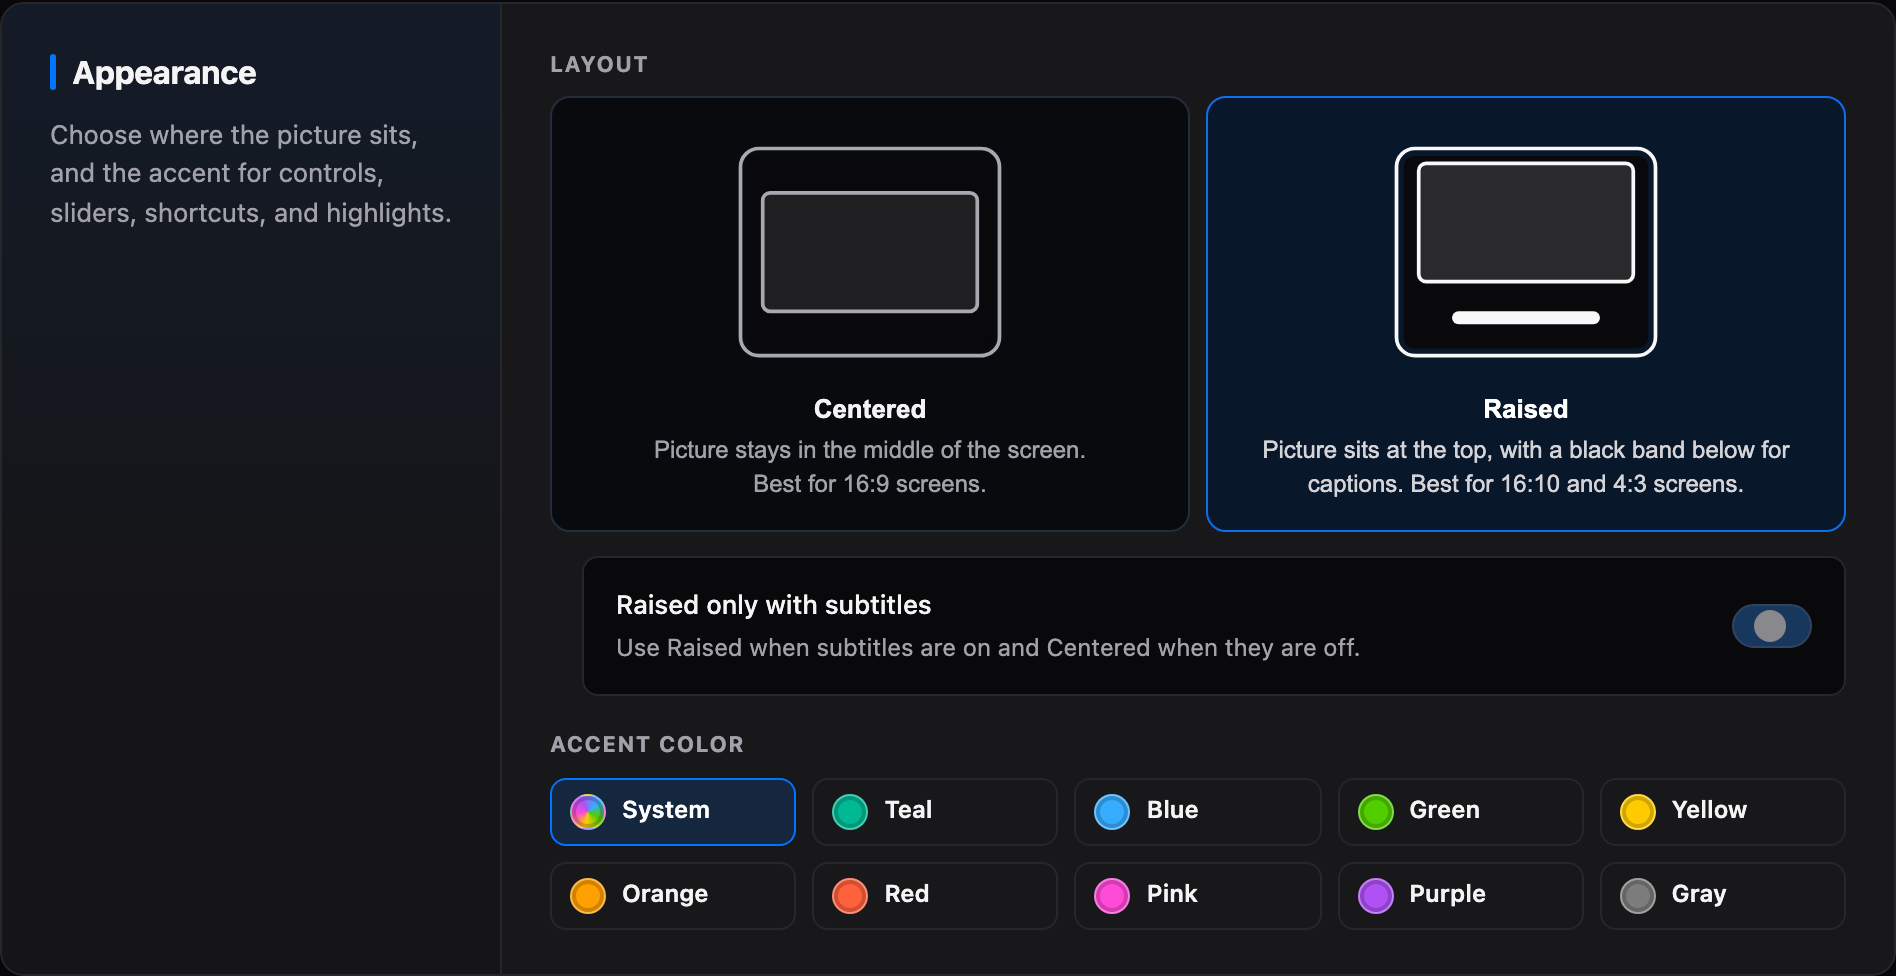
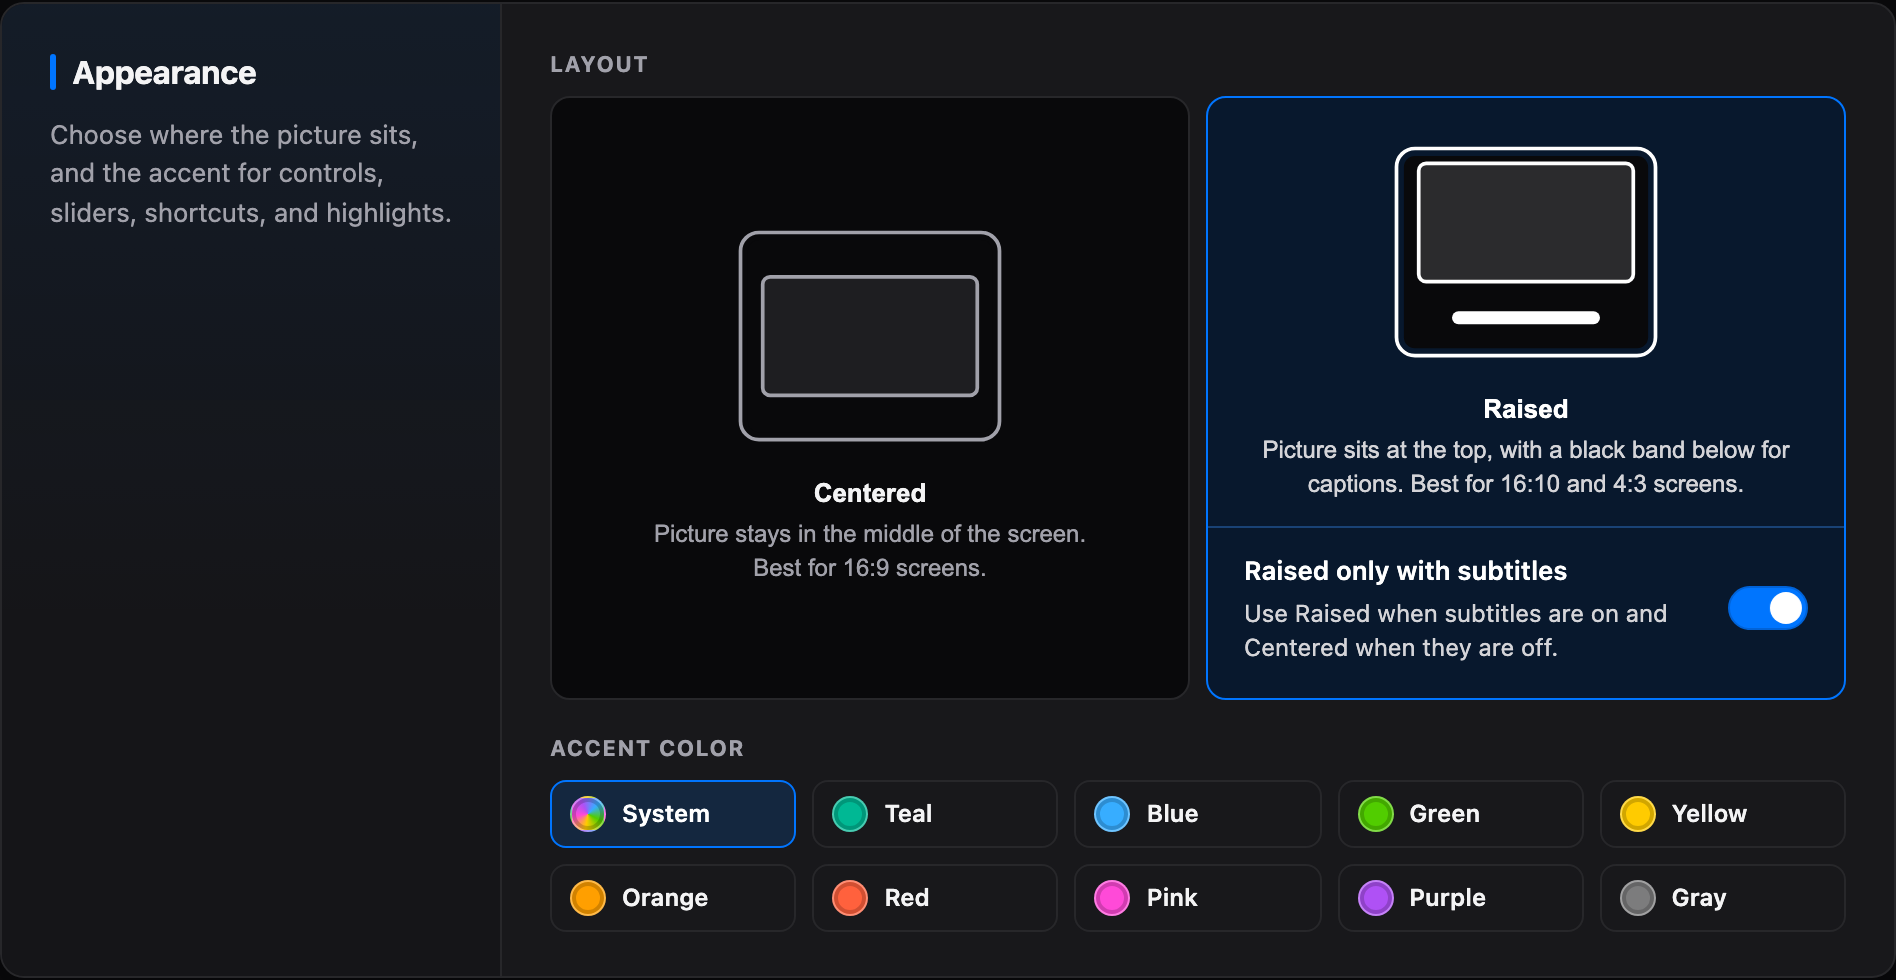
fix(options): put subtitle switch in Raised
The separate row read as a second panel.

diff --git a/options/options.css b/options/options.css
@@ -994,34 +994,95 @@ section h2 {
   color: #d4d4d8;
 }
 
-.picture-align-dependent {
-  /* The parent already supplies an 8px gap: total gap is 12px. */
-  margin-block-start: 4px;
-  margin-inline-start: 16px;
-  padding: 10px 12px;
-  border-inline-start: 2px solid
-    color-mix(in srgb, var(--accent-color) 55%, var(--border-color));
+.picture-align-card {
+  display: flex;
+  flex-direction: column;
+  min-width: 0;
+  border: 1px solid var(--border-color);
+  border-radius: 10px;
+  background-color: #09090b;
+  color: #a1a1aa;
+  transition: background-color 0.15s ease, border-color 0.15s ease, color 0.15s ease;
 }
 
-.picture-align-dependent .feature-label {
-  /* Match the layout-card title size. */
+.picture-align-card:has(.picture-align-btn:hover) {
+  border-color: color-mix(in srgb, var(--accent-color) 55%, var(--border-color));
+  background-color: color-mix(in srgb, var(--accent-color) 8%, #09090b);
+  color: var(--text-primary);
+}
+
+.picture-align-card:has(.picture-align-btn:focus-visible) {
+  border-color: var(--accent-color);
+  box-shadow: 0 0 0 2px color-mix(in srgb, var(--accent-color) 24%, transparent);
+}
+
+.picture-align-card:has(.picture-align-btn.selected) {
+  border-color: var(--accent-color);
+  background-color: color-mix(in srgb, var(--accent-color) 14%, #09090b);
+  color: #ffffff;
+}
+
+.picture-align-card > .picture-align-btn {
+  flex: 1;
+  padding-bottom: 12px;
+  border: 0;
+  border-radius: 10px 10px 0 0;
+  background: transparent;
+  box-shadow: none;
+  color: inherit;
+}
+
+.picture-align-card > .picture-align-btn:hover,
+.picture-align-card > .picture-align-btn.selected,
+.picture-align-card > .picture-align-btn:focus-visible {
+  border-color: transparent;
+  background: transparent;
+  box-shadow: none;
+  color: inherit;
+}
+
+.picture-align-subtitles {
+  display: none;
+  align-items: center;
+  justify-content: space-between;
+  gap: 12px;
+  margin: 0;
+  padding: 12px 18px 16px;
+  border-top: 1px solid var(--border-color);
+  background: transparent;
+}
+
+.picture-align-card > .picture-align-subtitles {
+  display: flex;
+}
+
+.picture-align-card:has(.picture-align-btn.selected) > .picture-align-subtitles {
+  border-top-color: color-mix(in srgb, var(--accent-color) 35%, var(--border-color));
+}
+
+.picture-align-subtitles .feature-label {
   font-size: 13px;
+  font-weight: 600;
 }
 
-.picture-align-dependent.is-disabled {
-  border-inline-start-color: var(--border-color);
+.picture-align-card:has(.picture-align-btn.selected) .picture-align-subtitles .feature-label {
+  color: #ffffff;
 }
 
-.picture-align-dependent.is-disabled .feature-label {
+.picture-align-card:has(.picture-align-btn.selected) .picture-align-subtitles .feature-desc {
+  color: #d4d4d8;
+}
+
+.picture-align-subtitles.is-disabled .feature-label {
   color: var(--text-secondary);
   cursor: default;
 }
 
-.picture-align-dependent.is-disabled .toggle-switch {
+.picture-align-subtitles.is-disabled .toggle-switch {
   cursor: default;
 }
 
-.picture-align-dependent input:disabled + .toggle-slider {
+.picture-align-subtitles input:disabled + .toggle-slider {
   opacity: 0.45;
 }
 

diff --git a/options/options.ts b/options/options.ts
@@ -513,6 +513,8 @@ async function init() {
     syncRaisedSubtitlesControl(selected);
     if (syncPictureAlignButtons(grid, selected)) return;
 
+    const subtitlesRow = document.getElementById('picture-align-subtitles-row');
+    subtitlesRow?.remove();
     grid.textContent = '';
 
     PICTURE_ALIGNS.forEach(align => {
@@ -537,8 +539,20 @@ async function init() {
       button.addEventListener('click', () => {
         void savePictureAlign(align);
       });
-      grid.appendChild(button);
+      if (align === 'top') mountRaisedCard(grid, button, subtitlesRow);
+      else grid.appendChild(button);
     });
+  }
+
+  function mountRaisedCard(grid: HTMLElement, button: HTMLButtonElement, row: HTMLElement | null): void {
+    if (!row) {
+      grid.appendChild(button);
+      return;
+    }
+    const card = document.createElement('div');
+    card.className = 'picture-align-card';
+    card.append(button, row);
+    grid.appendChild(card);
   }
 
   async function savePictureAlign(align: PictureAlign) {

diff --git a/options/options.html b/options/options.html
@@ -84,7 +84,7 @@
               <div id="picture-align-grid" class="picture-align-grid" role="radiogroup" aria-labelledby="picture-align-label"></div>
               <div
                 id="picture-align-subtitles-row"
-                class="feature-row picture-align-dependent is-disabled"
+                class="picture-align-subtitles is-disabled"
               >
                 <div class="feature-info">
                   <label
